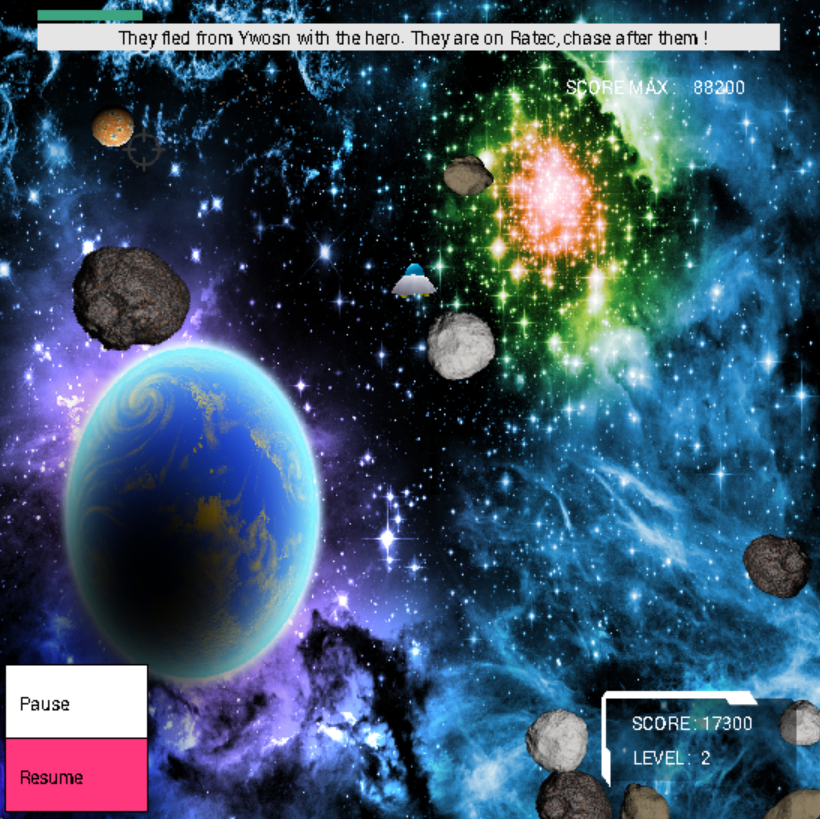
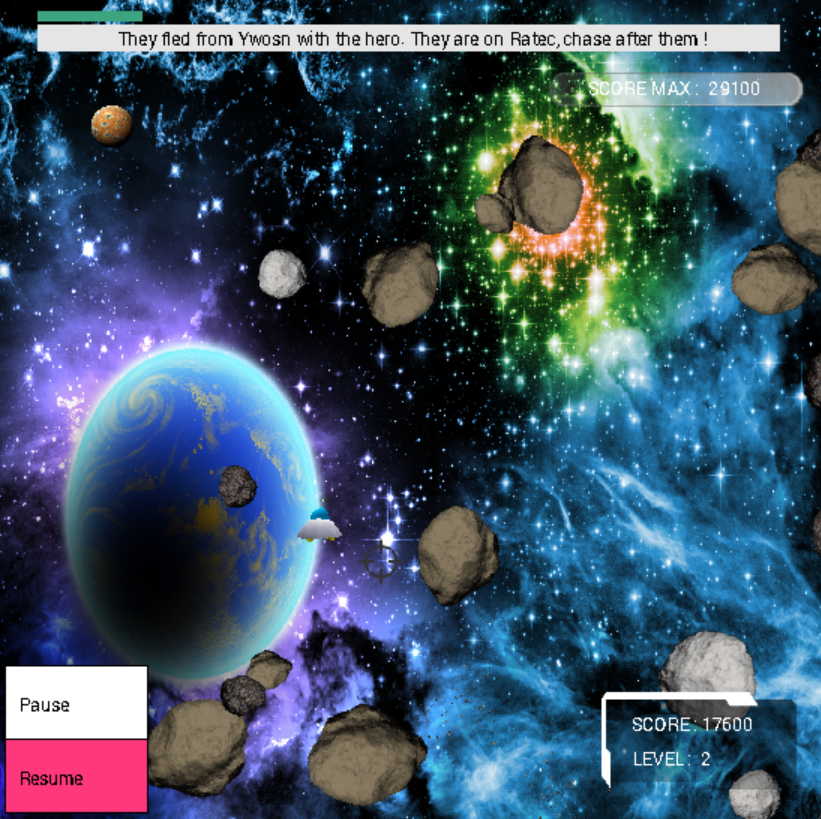
Add files via upload

diff --git a/readme.md b/readme.md
@@ -1,0 +1,204 @@
+NOM : EL KARROUMI
+Prénom : Cherazade
+
+LIFAMI - Mini-projet (Thème : Système de particules)
+
+
+<====================================================================================================>
+
+
+Sommaire : 
+
+Article I. Objectif de l'application et indications sur son utilisation
+  Section 1.01 : But de l'application
+  Section 1.02 : Installation du projet
+  Section 1.03 : Touches
+  Section 1.04 : Fonctionnement du jeu
+
+Article II. Fonctionnement du code
+
+Article III. Liens vers les documents scientifiques et les images/musiques utilisés dans ce programme
+  Section 3.01 : Liens vers les documents scientifiques utilisés
+  Section 3.02 : Liens vers les créateurs/sites des images et des musiques utilisées
+
+Article IV. Historique des évolutions du code
+  Section 4.01 : Début du travail sur le code : structures, surcharges d'opérateurs pour les vecteurs, fonctions de base d'utilisation des vecteurs, procédure d'initialisation, procédure d'affichage. 
+  Section 4.02 : Stade intermédiaire du travail sur le code : modification des structures, de la procédure d'initialisation et de la procédure d'affichage. Fonctions/procédures : lois de la gravitation universelle, procédure laser.
+  Section 4.03 : Fin du travail sur le code : modification des structures, de la procédure d'initialisation, de la procédure d'affichage. Procédure partie gagné ou partie perdu, procédure 'update' et ajout du menu, harmonisation et fonctionnalités bonus.
+
+Article V. Informations supplémentaires
+  Section 5.01 Phases de tests
+  Section 5.02 Améliorations
+  Section 5.03 Licence
+  Section 5.04 Remerciements
+
+
+<====================================================================================================>
+
+
+Article I. Objectif de l'application et indications sur son utilisation
+
+Section 1.01 : But de l'application
+L'application est un mini jeu vidéo de type "Space Shooter" avec ajout de particularités physiques, notamment la loi de la gravitation universelle. L'échelle mésoscopique s'étend des dimensions de l'atome jusqu'au micromètre. C'est une échelle intermédiaire entre la physique quantique et la physique classique. Les objets en présence dans ce programme dépassent l'échelle mésoscopique. Ils sont de l'ordre du mètre. Par conséquent, la physique newtonienne est un modèle fiable pour ce projet.
+
+Section 1.02 : Installation du projet
+Vous aurez besoin de télécharger la bibliothèque grapic (Cf. https://github.com/ucacaxm/grapic) ainsi que la bibliothèque SDL_mixer (Cf. https://github.com/libsdl-org/SDL_mixer). Il faudra placer les fichiers de SDL_mixier dans les dossiers grapic correspondant puis il faudra ajouter le linker : -lSDL2_mixer à votre projet. Vous aurez besoin du dossier images 'asteroides' et du fichier 'Asteroides.cpp' ci-joint afin de lancer correctement l'application. Le dossier 'asteroides' doit se trouver dans le dossier 'data' de grapic. Vous trouverez également le dossier 'asteroides2'. Ce dossier est à inclure directement dans le projet, c'est à dire dans le dossier 'windows-cb20' de grapic.
+
+Section 1.03 : Touches
+(a) Touches du menu
+Lorsque vous démarrez l'application, vous vous trouvez dans le menu 'Pause'. Vous trouverez le menu en bas à gauche de l'écran. Le menu possède deux choix, 'Pause' et 'Resume'. Ce menu reste affiché tant que l'application est ouverte. Le bouton 'Pause' vous permet de revenir à la page sur laquelle vous vous trouviez lorsque vous avez lancé l'application. 'Resume' vous permet de revenir au jeu. Vous trouverez également sur la page du menu 'Pause' les règles écrites en anglais ainsi que la mini histoire du jeu. Si vous souhaitez quitter l'application, appuyez sur la touche 'espace'. Pour réinitialiser une partie, appuyez sur la touche 'k' lorsque vous avez perdu, gagné ou bien lorsque vous êtes dans le menu 'Pause'.  
+IMPORTANT : Si vous êtes coincé à un moment ou à un autre dans l'application, vous pouvez toujours vous rendre dans le menu 'PAUSE' et appuyer sur la touche 'k' pour réinitialiser votre partie. Si cela ne fonctionne pas, fermez l'application avec la touche 'espace' et relancez le jeu.
+(b) Touches du jeu
+Pour déplacer votre soucoupe, vous devez orienter votre souris à l'endroit où vous voulez aller et faire un clic gauche à cet endroit-là. Cependant, gardez en tête que les réacteurs de votre soucoupe fonctionnent avec des forces. Une force appliquée dans une direction devra être compensée par une autre force dans la direction opposée pour rester immobile dans le référentiel de l'écran. Vous pouvez également vous défendre en lançant un laser avec la touche 'z'. Vous ne pouvez pas lancer un laser lorsqu'il y en a déjà un existant sur l'écran.
+
+Section 1.04 : Fonctionnement du jeu
+Vous perdez la partie si vous vous écrasez sur un astéroïde. Gardez en mémoire que votre soucoupe ne peut pas sortir de l'écran. Vous gagnez la partie lorsque vous atteignez la dernière planète. Il y a trois stages différents et donc trois planètes différentes à atteindre. Vous pouvez cependant recommencer chaque niveau à l'infini après avoir fini le jeu sans perdre votre score. Votre score dépend de deux paramètres : les planètes sur lesquelles vous avez déjà atterri et le nombre d'astéroïdes détruits. Le score lié à l'astéroïde dépend de sa taille. Plus l'astéroïde est grand, plus sa force gravitationnelle est grande, ce qui entraîne un risque plus élevé. La récompense est proportionnelle au risque. Le score lié aux planètes est fixe.
+
+
+<====================================================================================================>
+
+
+Article II. Fonctionnement du code
+
+Mon code se structure en dix points majeurs classés dans l'ordre ou vous les trouverez dans le .cpp ci-joint : 
+
+1. Les bibliotèques
+2. Les constantes
+3. Les structures 'Particule', 'Asteroid' et 'World' qui permettent d'afficher tous les objets du jeu (planètes, soucoupe, astéroïdes, lasers, images...) 
+et la structure 'Vecteur' qui est un outil qui va permettre de coder les fonctions de mise en mouvement des objets.
+4. La surcharge des opérateurs pour les vecteurs et les fonctions de base d'utilisation des vecteurs : distance, normalisation d'un vecteur et rotation. 
+Ce sont des outils qui vont permettre de coder la physique du jeu et la mise en mouvement des objets.
+5. L'initialisation du score, du laser et du monde ainsi que les fonctions qui initialisent la position aléatoire des astéroïdes.
+6. Les fonctions qui servent à calculer les forces en présences sur la soucoupe ainsi que la procédure associée qui met à jour la position de la soucoupe. 
+Elles définissent les lois physiques du jeu et le mouvement de la soucoupe.
+7. Les procédures du fonctionnement du laser, des parties gagnées ou perdues.
+8. La procédure qui affiche le jeu et la procédure 'update' qui appelle toutes les autres procédures et fonctions du jeu. La fonction 'file' qui renvoie le score maximal gardé en memoire dans un fichier texte. La fonction met également ce score à jour.
+9. Le menu
+10. La fonction 'main()' qui permet le lancement du jeu.
+
+Vous trouverez également des commentaires dans le code qui vont permettront de comprendre l'utilité de chaque fonction/procédure.
+
+
+<====================================================================================================>
+
+
+Article III. Liens vers les documents scientifiques et les images/musiques utilisés dans ce programme
+
+Section 3.01 : Liens vers les documents scientifiques utilisés
+(a) Informations sur les corps célestes :
+- https://fr.wikipedia.org/wiki/Syst%C3%A8me_solaire
+- https://fr.wikipedia.org/wiki/Ast%C3%A9ro%C3%AFde
+(b) Informations sur la gravitation et mouvement des corps célestes :
+- https://fr.wikipedia.org/wiki/Loi_universelle_de_la_gravitation
+- https://fr.wikipedia.org/wiki/Lois_de_Kepler
+- https://fr.wikipedia.org/wiki/Champ_gravitationnel
+- https://fr.wikipedia.org/wiki/M%C3%A9canique_quantique
+- https://fr.wikipedia.org/wiki/M%C3%A9soscopique
+- https://fr.wikipedia.org/wiki/Relation_de_Chasles
+(c) Informations sur les collisions (non utilisé dans ce programme) :
+- https://fr.wikipedia.org/wiki/Choc_%C3%A9lastique
+- https://fr.wikipedia.org/wiki/Lois_de_Snell-Descartes
+(d) Informations sur la propulsion spatiale :
+- https://fr.wikipedia.org/wiki/Propulsion_spatiale
+
+Section 3.02 : Liens vers les créateurs/sites des images et des musiques utilisées
+(a) Images
+- 'Background1.png', 'Background3.png', 'Background4.png' : https://opengameart.org/users/rawdanitsu
+- 'Snowy.png', 'Cratered.png', 'Aquamarine.png' : https://opengameart.org/users/screaming-brain-studios
+- 'cursor_hand.png', 'Panel04', 'Reacteur.png' : https://opengameart.org/users/kenney
+- 'laserRed.png', 'laserOrange.png' et 'laserYellow.png': https://opengameart.org/users/bonsaiheldin
+- 'planetoids-1.png', 'planetoids-2.png', 'planetoids-3.png' : https://opengameart.org/users/varkalandar
+- 'BG.png', 'YouWin(2).png', 'YouLose(2).png', 'SpaceGame.png' : https://opengameart.org/users/craftpixnet-2d-game-assets
+- 'SpaceCat.png' : https://opengameart.org/users/ei
+- 'futureui1.png' : https://opengameart.org/users/bart
+- 'Explosion.png' : https://opengameart.org/users/sinestesia
+- 'score_max.png' : https://opengameart.org/users/ahmadmanga
+- 'assroids.ico' : https://opengameart.org/users/mindchamber (icône de l'application sur la version .exe)
+- 'Soucoupe.png', 'Debris.png' ont été trouvées sur un site qui a pour but de partager des images non protégées : https://www.pngmart.com/fr/copyright-policy
+- 'Menu.png', 'YouWin.png', 'YouLose.png' : J'ai réalisé ces images grace aux autres images du dossier 'asteroides' et grace à l'application Canva.
+(b) Musiques
+- AdrenalineToTheFight.wav : https://bocuma.itch.io
+
+
+<====================================================================================================>
+
+
+Article IV. Historique des évolutions du code
+
+Section 4.01 : Début du travail sur le code : structures, surcharges d'opérateurs pour les vecteurs, fonctions de base d'utilisation des vecteurs, procédure d'initialisation, procédure d'affichage. 
+(a) Explications
+Dans les premiers jours du travail sur ce code, j'ai ajouté les librairies et les constantes. J'ai également écris les structures de base, les surcharges d'opérateurs pour les vecteurs et les fonctions de base d'utilisation des vecteurs. Je me suis concentrée sur la façon de procéder pour faire apparaître aléatoirement des astéroïdes sur l'écran. J'ai créé une procédure basique d'affichage afin de vérifier mon code. Elle affichait la planète et la soucoupe de façon immobile. Après avoir fini le TP "SystemeMasseRessort" J'ai pu rajouter les fonctions de normalisation d'un vecteur et de calcul de la distance. Pour finir, j'ai écris la procédure d'initialisation.
+(b) Qu'est-ce que le code affiche ?
+Un cercle en haut à gauche de l'écran qui représente la planète. Un cercle en bas au milieu de l'écran qui représente la soucoupe. Des cercles de tailles différentes qui apparaissent aléatoirement sur l'écran à chaque lancement de l'application.
+
+Section 4.02 : Stade intermédiaire du travail sur le code : modification des structures, de la procédure d'initialisation et de la procédure d'affichage. Fonctions/procédures : lois de la gravitation universelle, procédure laser.
+(a) Explications
+La partie suivante concerne principalement le codage des lois mécaniques et le fonctionnement du laser. J'ai commencé par ajouter une force d'attraction à chaque astéroïde. Ensuite, j'ai ajouté une vitesse pour les réacteurs de la soucoupe. J'ai remarqué que la soucoupe pouvait échapper à n'importe quelle force d'attraction. J'ai corrigé le problème en modifiant la procédure des réacteurs et en la remplaçant par une fonction ajoutant une force. Les lois physiques du jeu fonctionnent. J'ai ensuite travaillé sur le fonctionnement du laser. Dans ses débuts, le laser pouvait être lancé sans "cooldown". C'est un problème récurrent dans les jeux que l'on retrouve notamment dans les "platformer" ou le nombre de sauts doit être limité. J'ai modifié cette procédure afin que le laser fonctionne correctement puis j'ai modifié la procédure d'initialisation et d'affichage afin d'y incorporer ces modifications. Pour finir, j'ai ajouté un mouvement aux astéroïdes grâce à la fonction 'rotation'. Entre temps, j'ai également ajouté une image à chaque objet (Cf. dossier 'asteroides').
+(b) Qu'est-ce que le code affiche ?
+Des astéroïdes avec une position initiale aléatoire, en mouvement, exerçant une force d'attraction sur la soucoupe. Une soucoupe qui peut se mouvoir et lancer des lasers. Un fond d'écran et une image pour chaque objet. À ce stade, le 'game-over' n'est pas pris en compte et la soucoupe peux quitter l'écran.
+
+Section 4.03 : Fin du travail sur le code : modification des structures, de la procédure d'initialisation, de la procédure d'affichage. Procédure partie gagné ou partie perdu, procédure 'update' et ajout du menu, harmonisation et fonctionnalités bonus.
+Mon projet s'est terminé par l'écriture de la procédure partie gagnée et partie perdue, 'update' et l'ajout d'un menu. Ensuite, j'ai consacré plus de 50% du temps à optimiser le projet. J'ai testé le jeu et fais tester le jeu. J'ai corrigé les bugs remarqués grâce à la phase de tests et j'ai modifié le code afin d'y incorporer les améliorations nécessaires. Pour finir, j'ai passé un long moment à comprendre le fonctionnement de la musique avec C++. J'ai tout d'abord essayé de jouer de la musique avec la bibliothèque 'Windows.h'. Cependant, je me suis rendu compte que la musique et le jeu ne fonctionnaient pas en même temps. J'ai ensuite essayé de jouer de la musique avec SDL2 mais les résultats n'étaient pas concluant. La fenêtre d'affichage et la musique buggait. J'ai ensuite téléchargé SDL_mixer. J'ai dû faire face à deux problèmes : les versions de mes bibliothèques SDL2 et SDL_mixer et la position des fichiers de SDL_mixer. Après avoir correctement configuré ces éléments, j'ai pu jouer une musique de fond.
+
+
+<====================================================================================================>
+
+
+Article V. Informations supplémentaires
+
+Le programme peut etre lent selon la qualite de votre machine.
+
+Section 5.01 Phases de tests
+
+La phase de test a permis de prendre connaissance des problèmes du jeu et de les corriger au mieux.
+
+(a) Problèmes résolus
+- Sortie de l'écran : dans les précédentes versions du jeu, la sortie de l'écran équivalait à une partie perdue. Étant donné que les forces en présence sur la soucoupe sont massives, la soucoupe a tendance à "glisser". Cette difficulté supplémentaire a été retirée.
+- Collision avec les limites de l'écran : les collisions ont été modifiées afin d'empêcher la soucoupe de rebondir violemment et de s'écraser involontairement sur un astéroïde. Cela a permis d'améliorer la maniabilité.
+- Tailles des astéroïdes : les astéroïdes pouvaient initialement prendre une taille entre 0 et 30 pixels. Ainsi, certains astéroïdes n'étaient pas visibles aux yeux du joueur. Cette valeur se situe à présent entre 10 et 30.
+- Position des astéroïdes : les astéroïdes pouvaient prendre une position sur tout l'écran. Certains astéroïdes pouvaient apparaître sur la soucoupe et la partie était perdue avant même de l'avoir commencé. Les astéroïdes ne peuvent plus apparaître dans la zone de la soucoupe de taille 2DIMW/10 en bas de l'écran.
+- Forces gravitationnelles trop faible : la masse des astéroïdes a été augmentée.
+- Problèmes de comptabilisation du score. Le score se réinitialisait à chaque nouveau niveau. La fonction d'initialisation du score a été retirée de la fonction d'initialisation du monde. La fonction d'initialisation du score est appelée seulement lorsque la partie est perdue.
+- Partie perdue : lorsque la partie était perdue, le joueur ne pouvait plus bouger la soucoupe. Les forces d'attraction qui s'exerçaient sur elles continuaient à agir sur son mouvement et la soucoupe pouvait s'échapper. Le jeu reprenait. À présent, lorsque la partie est perdue, tous les éléments du jeu se figent.
+- (Problème résolu le 09/04/2023) Score de la dernière planète : lorsque la soucoupe atteignait la dernière planète, le score augmentait à l'infini à cause d'une boucle 'if'. Ajout du compteur 'w.win' afin de pallier au problème. Avant le score de cette dernière planète n'était pas comptabilisé.
+- Problème d'affichage des images.
+
+(b) Problèmes non résolus
+- Partie perdue : dans certaines situations où la soucoupe s'écrase sur un astéroïde au même moment ou le laser détruit ce même astéroïde, les messages informant que la partie est perdue ne s'affichent pas. La réinitialisation d'une partie ne marche pas dans 'Resume'. Il faut retourner dans le menu 'Pause' et recommencer une partie à partir de là. Ce bug est très rare.
+- Lorsque la soucoupe se trouve sur les limites du monde elle est très peu soumise aux forces gravitationnelles. Cependant, il n'est pas recommandé de se coller au mur étant donné que depuis le 28/04/2023, la réapparition des astéroïdes a été ajouté. Ces astéroïdes apparaissent dans la zone supérieur gauche de l'écran et traversent l'écran pour arrivé à la zone inférieur droite. Il y a un risque de collision avec ceux-ci dans les cas ou le joueur reste trop longtemps sur les limites de l'écran.
+
+Section 5.02 Améliorations
+
+(a) Ameliorations récentes
+
+Ces informations se trouvent également au début du .cpp ci-joint.
+
+Modifications du 09/04/2023
+- Images, UI, mini-histoire.
+- Resolution du bug de score pour la dernière planete. (Cf. readme Article V, Section 5.01, (a))
+Modification du 10/04/2023
+- Travail sur le bug de la partie perdue. (Cf. readme Article V, Section 5.01, (b))
+Modification du 14/04/2023
+- Ajout du mode INFINITE.
+Modification du 15/04/2023
+- Images, UI.
+Modification du 16/04/2023
+- Copyright des images.
+Modification du 22/04/2023
+- Ajout d'une musique de fond.
+Modification du 28/04/2023
+- Réaparition des Asteroides.
+Modification du 03/05/2023
+- Mémoire du score maximal dans un fichier texte.
+
+(b) Ameliorations possibles
+- Ajout d'effets sonores simultanés : activation du laser de la soucoupe, collision avec un astéroïde, partie gagnée, partie perdue, activation des réacteurs de la soucoupe, menu.
+- Avoir un affichage plein écran en fonction des dimensions de l'écran de l'ordinateur du joueur.
+
+Section 5.03 Licence
+- CC-BY
+
+Section 5.04 Remerciements
+- Merci à Layachi et à Mélinda pour avoir participé à la phase de tests.
+
+Fin du readme, merci d'avoir lu.
